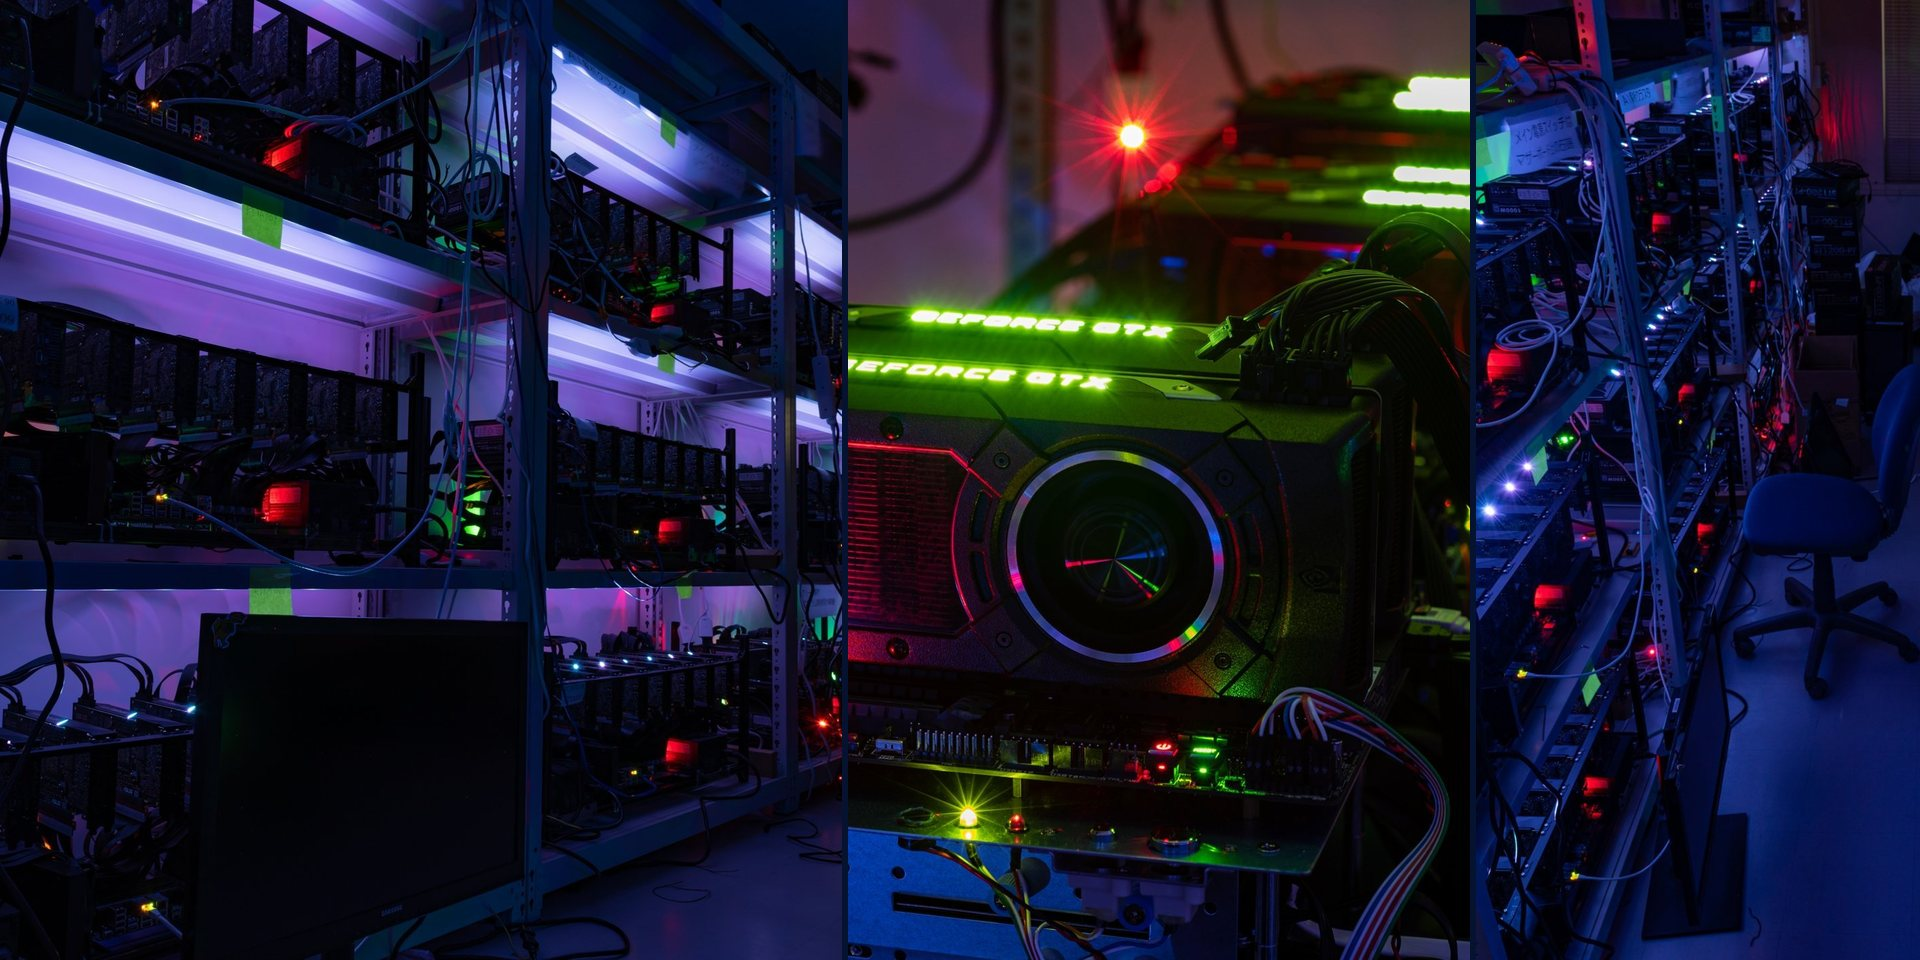
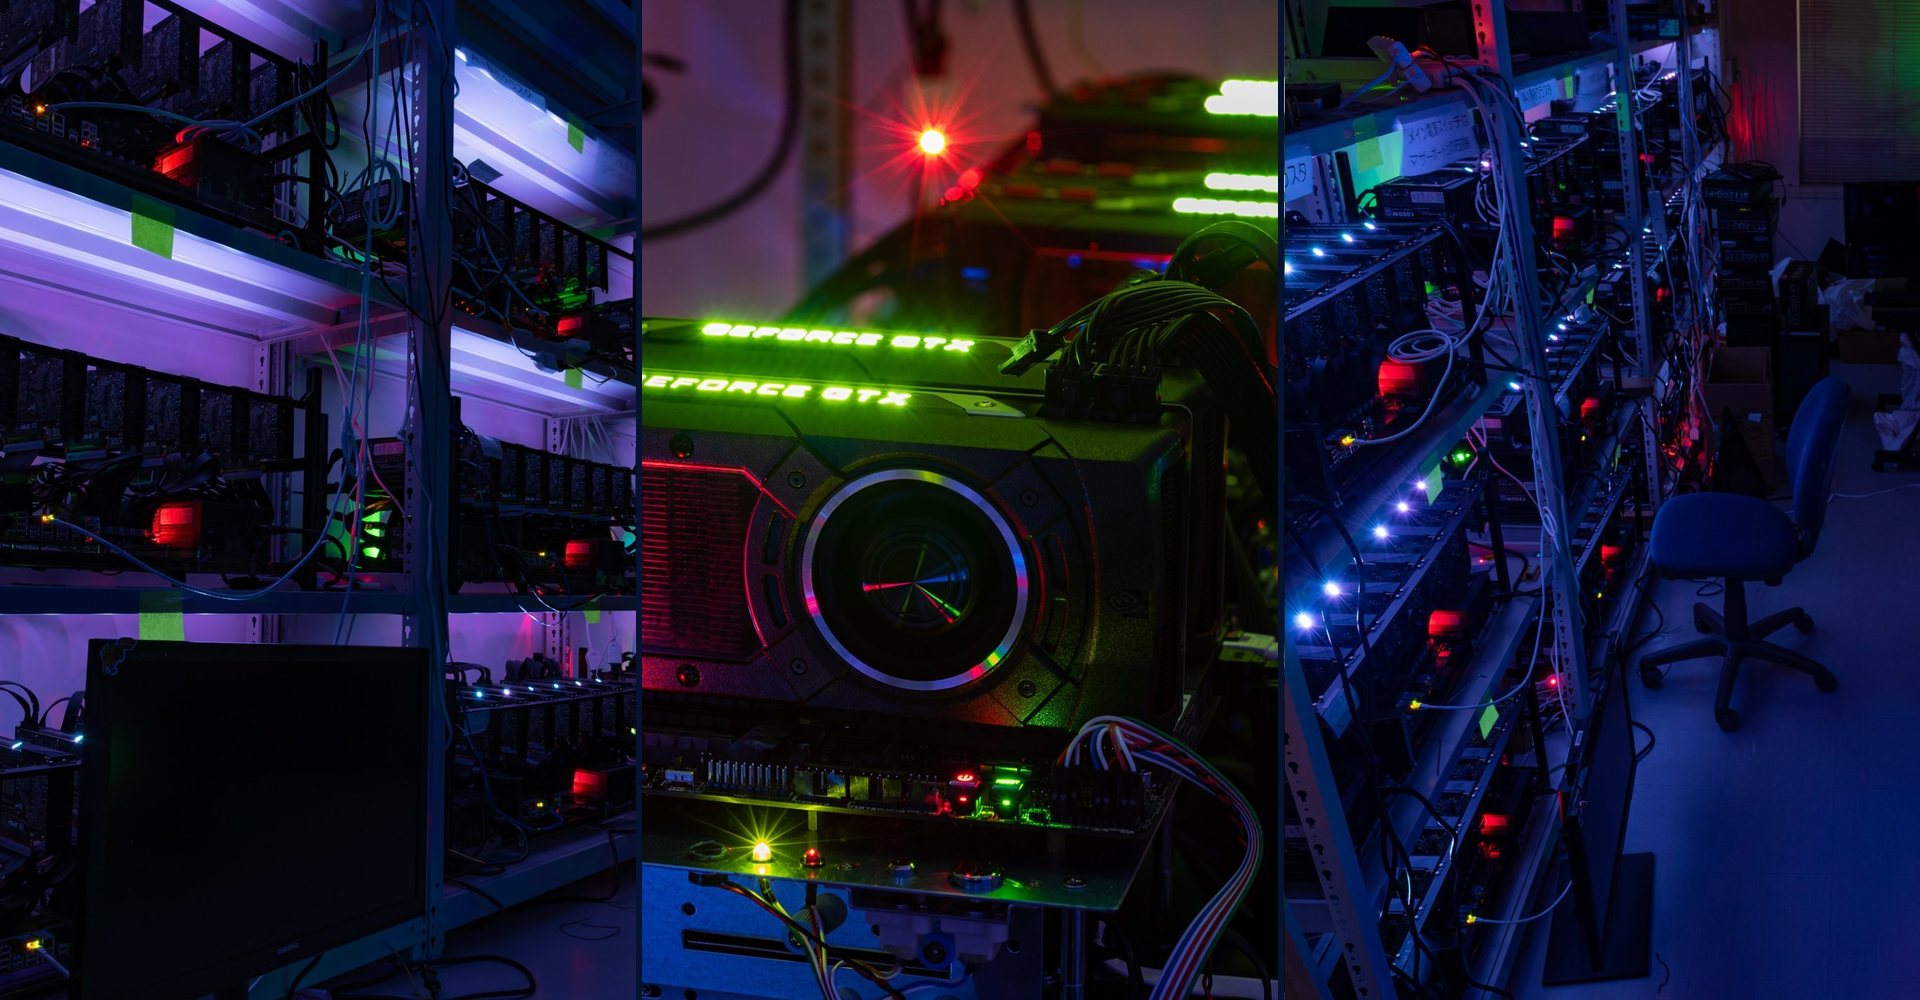
Put the stitched top images on an even grid, match them to the area beside the menu, and fill the area behind the menu
- Each stitched image now uses equal cells: 3 or 2 equal columns, and 3x2 / 4x2 grids split exactly at half height, with the same 6px gaps
- The images are 1.92:1, the exact shape of the area left of the side menu on screens 1280px and wider (902x470); their right edge lines up with the lower corner of the slanted menu and has the same 6px gap
- A blurred, darkened copy of each image (top-XX-bg.jpg, about 4 KB) fills the whole band, so the menu has a picture behind it like the other slides
- The TV and professor panels, which have captions at the bottom, move to the top row so neither the copy nor the tiles cover the captions
- The photo controls sit at the right edge on PCs, so they no longer touch the image

diff --git a/css/style.css b/css/style.css
@@ -77,10 +77,11 @@ img { max-width: 100%; height: auto; vertical-align: middle; }
     radial-gradient(ellipse 70% 80% at 0% 100%, rgba(6,19,48,.85), rgba(6,19,48,.5) 45%, transparent 75%),
     linear-gradient(180deg, rgba(6,19,48,.12) 0%, rgba(20,60,140,.04) 35%, rgba(6,19,48,.18) 58%, rgba(6,19,48,.93) 100%),
     linear-gradient(90deg, rgba(6,19,48,.55) 0%, transparent 14%, transparent 62%, rgba(6,19,48,.45) 100%); }
-/* 何枚かの写真をつないだ画像（is-collage）は、メニューの左に見える範囲（横:縦 = 2:1）に合わせて組み直してある（作り方は Top画像の 組み直し.py）。
+/* 何枚かの写真をつないだ画像（is-collage）は、メニューの左に見える範囲（横:縦 = 1.92:1）に合わせて組み直してある（作り方は Top画像の 組み直し.py）。
    PC ではメニューの左の範囲いっぱいに出し、右のメニューに写真が隠れないようにする。スマホは帯いっぱい（見せる所は --sp）。暗くするのはコピーの後ろだけ */
+.hero__slide.is-collage { background-color: #071636; background-position: center; background-size: cover; background-repeat: no-repeat; }   /* 帯いっぱいに、その画像をぼかした背景（index.html の background-image）を敷き、メニューの後ろにも絵が見えるようにする */
 .hero__slide.is-collage img { display: block; object-position: var(--sp, 50% 50%); }
-@media (min-width: 961px) { .hero__slide.is-collage img { width: calc(100% - 300px); object-position: 50% 50%; } }
+@media (min-width: 961px) { .hero__slide.is-collage img { width: calc(100% - 338px); object-position: 50% 50%; box-shadow: 6px 0 0 #061330; } }   /* 右端はメニューの斜めの縁の下の角にそろえる（幅1280以上で 902×470 = 画像と同じ 1.92:1）。右の縁にも、写真の間と同じ太さのすき間 */
 .hero__slide.is-collage::after { background: radial-gradient(ellipse 66% 80% at 0% 100%, rgba(6,19,48,.9), rgba(6,19,48,.55) 45%, transparent 78%); }
 @media (max-width: 960px) { .hero__slide.is-collage::after { background: linear-gradient(180deg, transparent 32%, rgba(6,19,48,.62) 52%, rgba(6,19,48,.92) 78%); } }   /* スマホはコピーが帯の幅いっぱいに重なるので、下半分を暗く */
 /* 左端の斜めの暗い帯と光る縁（つないだ画像のときは、画像の角を隠さないよう消す） */
@@ -89,7 +90,7 @@ img { max-width: 100%; height: auto; vertical-align: middle; }
 .hero__slides, .hero__copy { touch-action: pan-y pinch-zoom; }   /* 写真の上で横に払ったら、ブラウザの「戻る」ではなく写真の切り替えにする（縦のスクロールと拡大はそのまま） */
 @media (prefers-reduced-motion: reduce) { .hero__slide, .hero__edge { transition: none; } }
 /* 写真の切り替え（fx.js が置く）: 自動の切り替えを止めるボタン、何枚目かの数字、押すとその写真に替わる印 */
-.hero__nav { position: absolute; z-index: 3; right: 18px; bottom: 26px; display: flex; align-items: center; gap: 10px; }
+.hero__nav { position: absolute; z-index: 3; right: 0; bottom: 26px; display: flex; align-items: center; gap: 6px; }   /* PC は右端に寄せ、メニューの左に収めた画像（右端 = 幅 - 338px）にかからないようにする */
 .hero__count { font-family: var(--en); font-weight: 600; font-size: 12.5px; letter-spacing: .08em; color: #c9d8ef; font-variant-numeric: tabular-nums; text-shadow: 0 1px 4px #061330; white-space: nowrap; }
 .hero__count b { font-size: 16px; color: #fff; }
 .hero__dots { display: flex; }

diff --git a/index.html b/index.html
@@ -53,12 +53,12 @@
       <figure class="hero__slide is-light"><img data-src="img/top-02.jpg" alt="船首の外板の変形量を色で示した解析の結果" style="--pos: 50% 45%"></figure>
       <figure class="hero__slide"><img data-src="img/top-03.jpg" alt="屋外で撮った、家族も一緒の研究室の集合写真" style="--pos: 50% 85%"></figure>
       <figure class="hero__slide"><img data-src="img/top-04.jpg" alt="表彰式で賞状を手にした受賞者の記念写真" style="--pos: 50% 18%"></figure>
-      <figure class="hero__slide is-collage"><img data-src="img/top-05.jpg" alt="研究室の計算サーバー"></figure>
-      <figure class="hero__slide is-collage"><img data-src="img/top-06.jpg" alt="研究室の溶接ロボットと実験用の作業台" style="--sp: 30% 50%"></figure>
-      <figure class="hero__slide is-collage"><img data-src="img/top-07.jpg" alt="理想化陽解法FEMの適用例。各産業分野での解析と、溶接速度を変えた解析"></figure>
+      <figure class="hero__slide is-collage" style="background-image: url(img/top-05-bg.jpg)"><img data-src="img/top-05.jpg" alt="研究室の計算サーバー"></figure>
+      <figure class="hero__slide is-collage" style="background-image: url(img/top-06-bg.jpg)"><img data-src="img/top-06.jpg" alt="研究室の溶接ロボットと実験用の作業台" style="--sp: 30% 50%"></figure>
+      <figure class="hero__slide is-collage" style="background-image: url(img/top-07-bg.jpg)"><img data-src="img/top-07.jpg" alt="理想化陽解法FEMの適用例。各産業分野での解析と、溶接速度を変えた解析"></figure>
       <figure class="hero__slide"><img class="is-wide" data-src="img/top-08.jpg" alt="柴原研究室のメンバーの集合写真"></figure>
-      <figure class="hero__slide is-collage"><img data-src="img/top-09.jpg" alt="テレビで紹介された、造船の技能に AI で挑む研究と、小型の自動加熱ロボット" style="--sp: 0% 50%"></figure>
-      <figure class="hero__slide is-collage"><img data-src="img/top-10.jpg" alt="研究室が受けた賞の賞状と盾、受賞者の写真"></figure>
+      <figure class="hero__slide is-collage" style="background-image: url(img/top-09-bg.jpg)"><img data-src="img/top-09.jpg" alt="テレビで紹介された、造船の技能に AI で挑む研究と、小型の自動加熱ロボット" style="--sp: 0% 50%"></figure>
+      <figure class="hero__slide is-collage" style="background-image: url(img/top-10-bg.jpg)"><img data-src="img/top-10.jpg" alt="研究室が受けた賞の賞状と盾、受賞者の写真"></figure>
     </div>
     <span class="hero__edge"></span>
     <div class="hero__copy">
